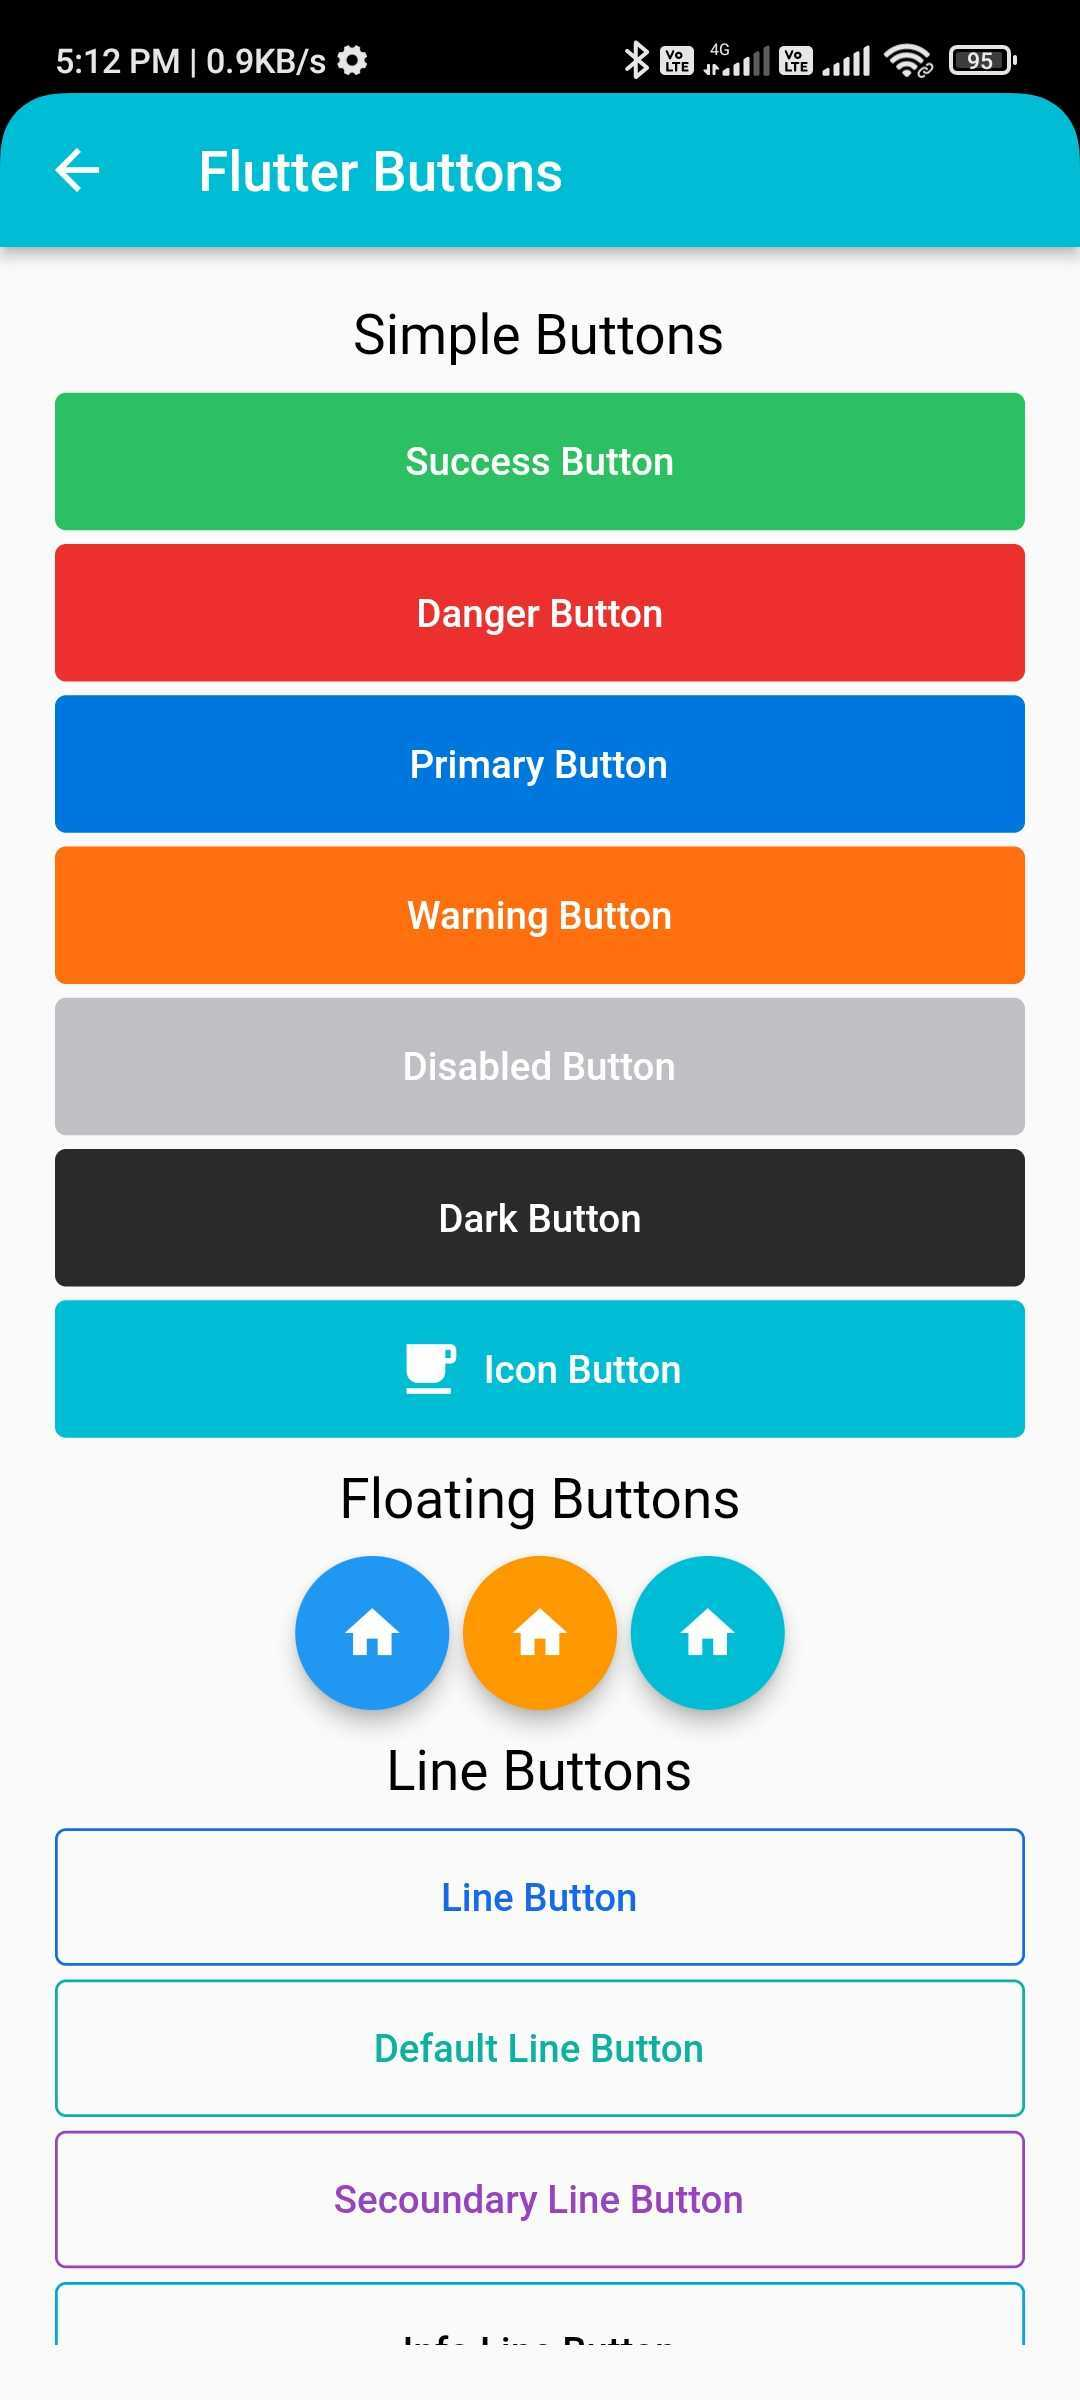
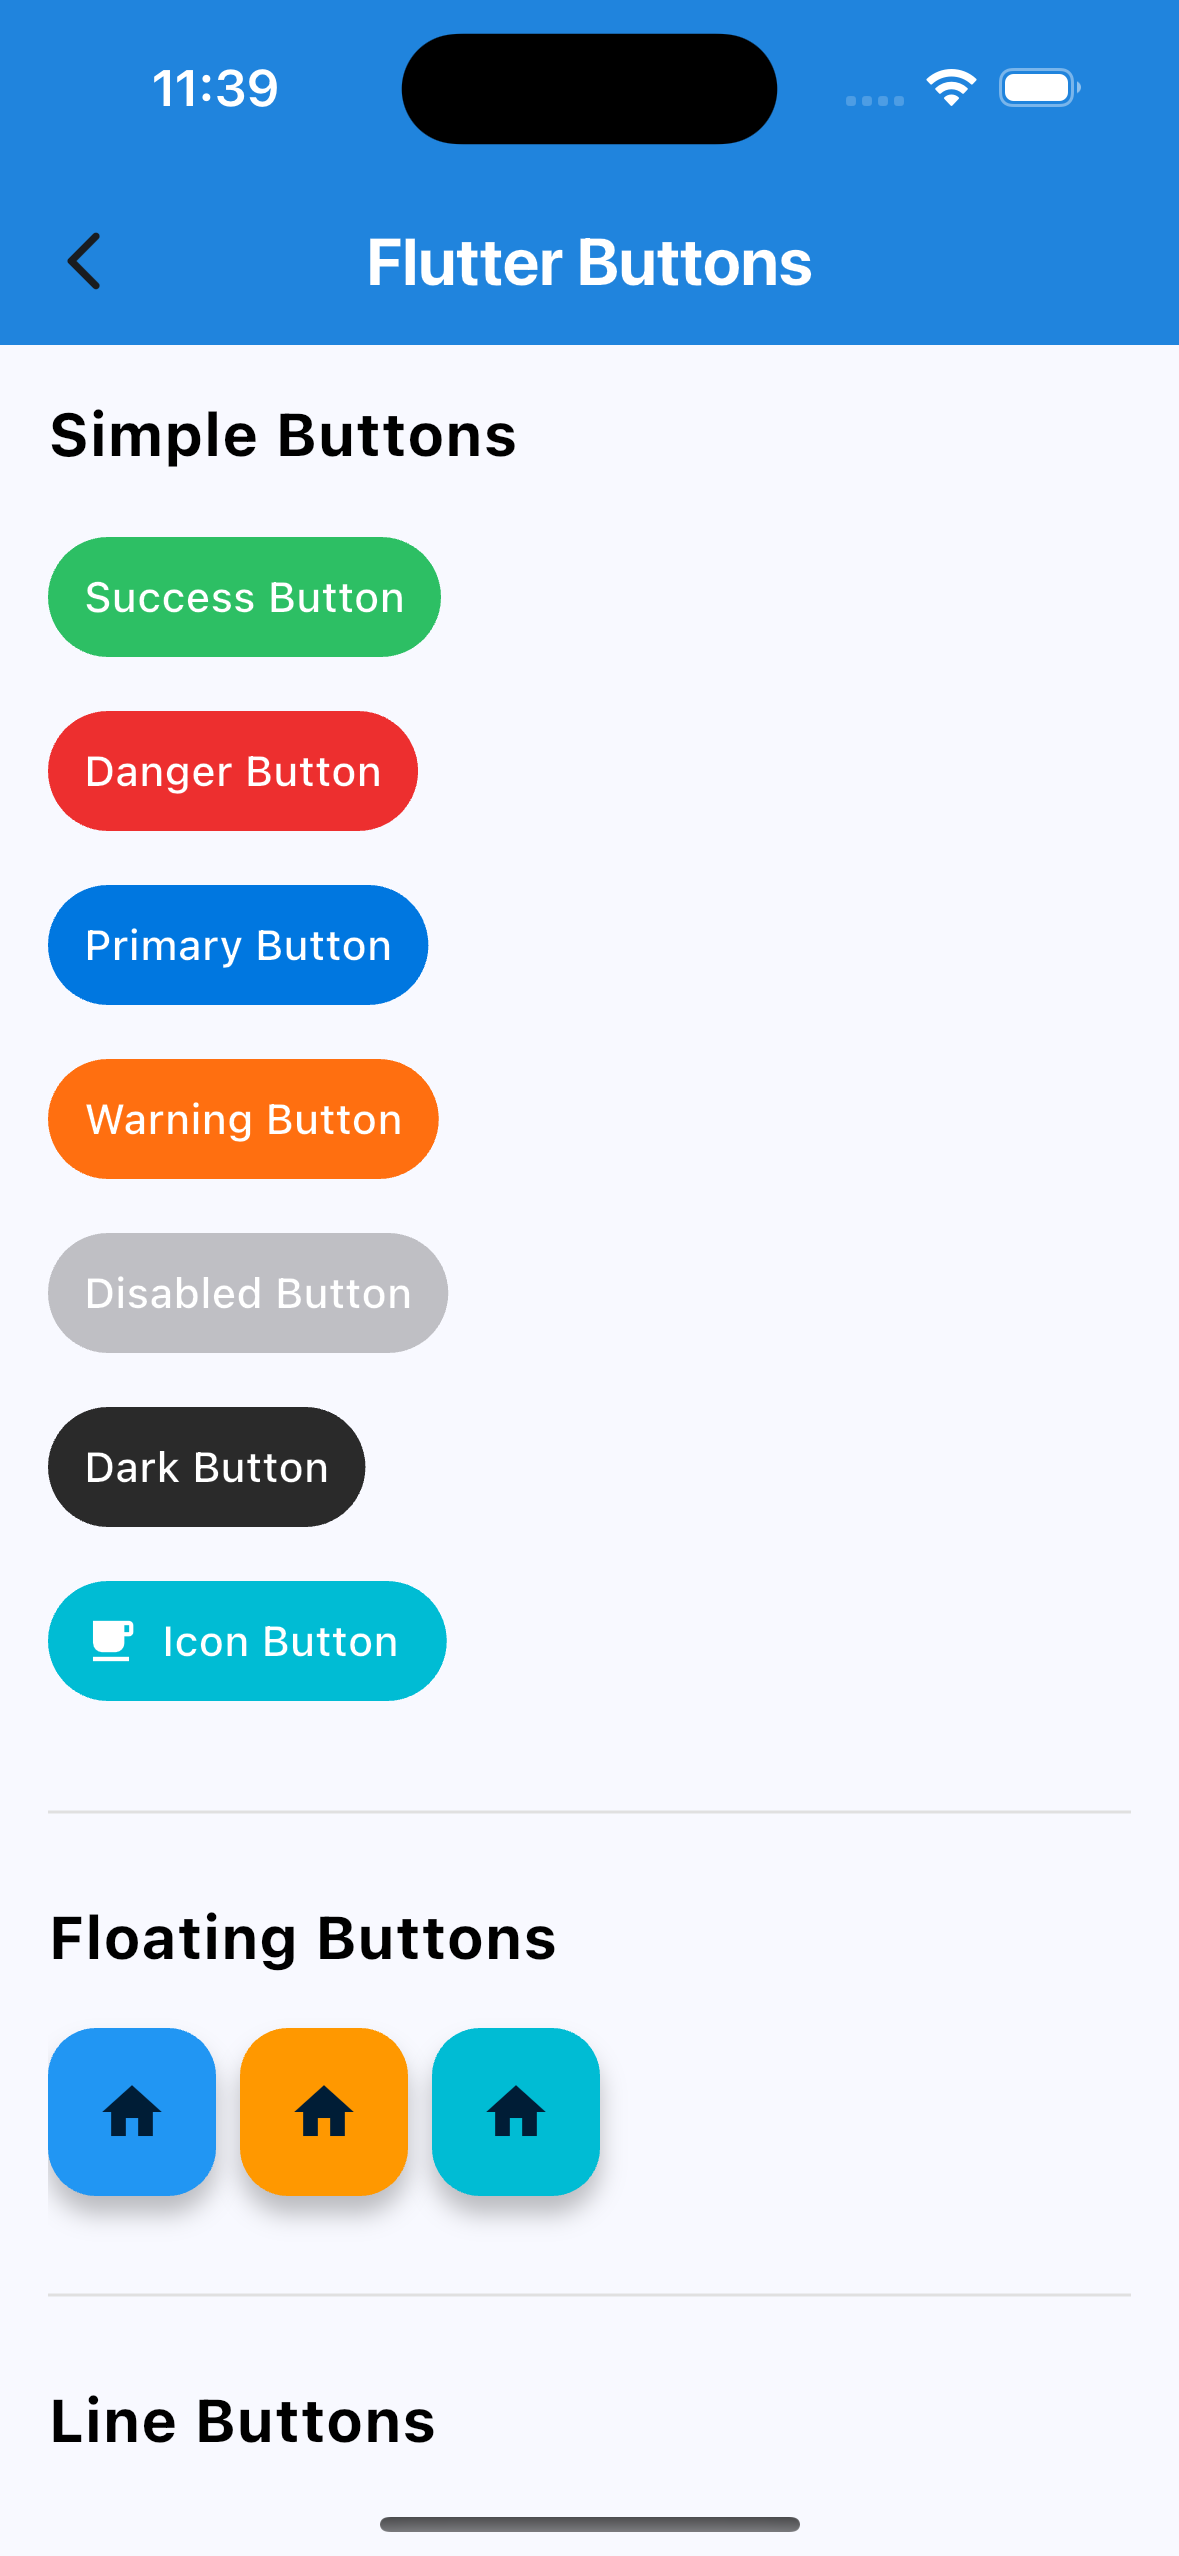
Update changelog and images

diff --git a/CHANGELOG.md b/CHANGELOG.md
@@ -80,3 +80,11 @@ All notable changes to flutter_widget_catalogue will be documented in this file
 
 - Change CHANGELOG.md file
 - Remove un-used comment 
+
+## 1.1.4
+### What's Changed - 05-03-2025
+
+- Improve UI design and set attractive colors
+- Change CHANGELOG.md file
+- Remove un-used comment and code
+- Update flutter 3.20.0 and set all latest dependency
